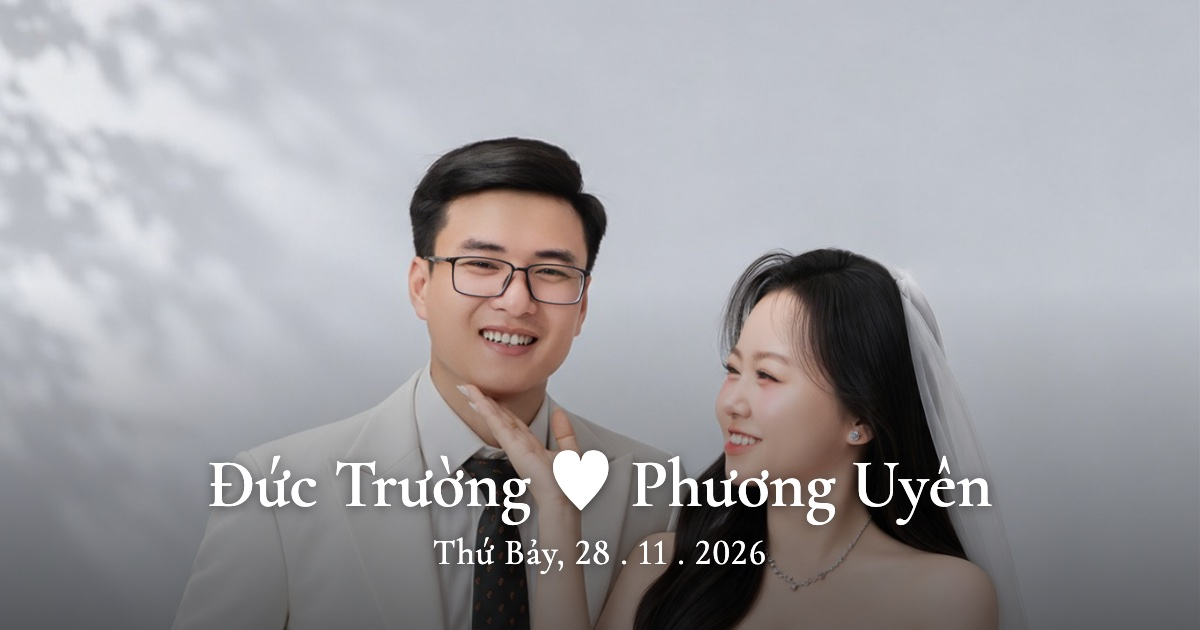
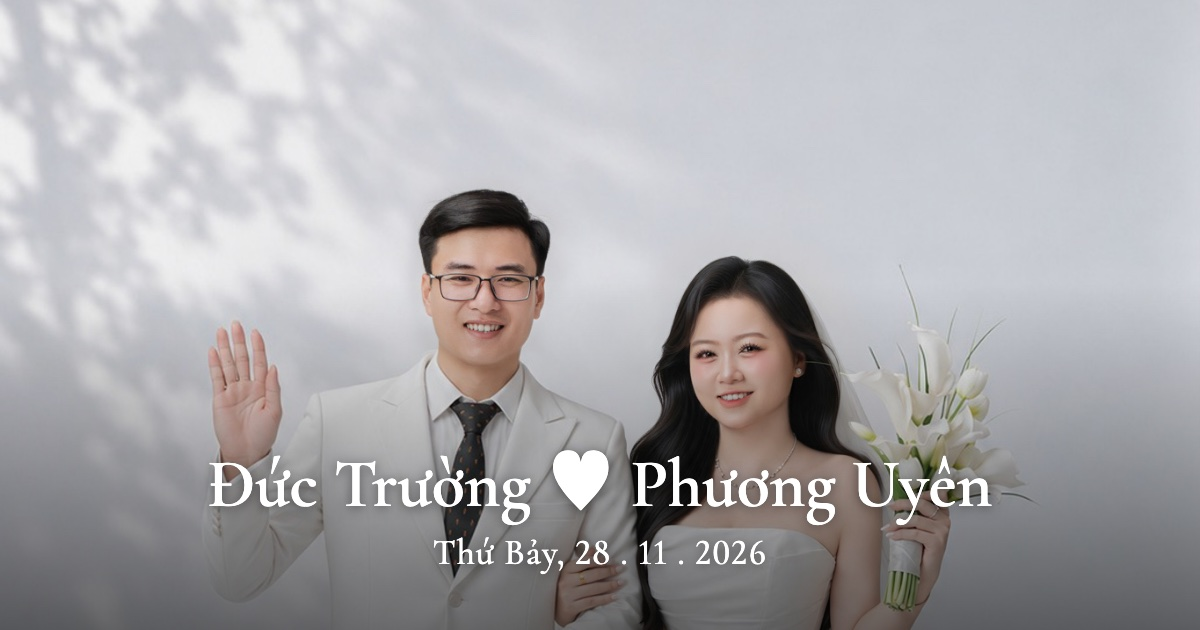
feat: thiệp Đức Trường & Phương Uyên (nhà trai) — ảnh đầu thiệp đổi sang DSC08628 (trang-1, ảnh đầu thư mục Drive) theo yêu cầu, ảnh cũ trang-4 xuống đầu album; ảnh xem trước link (og.jpg) làm lại từ ảnh mới (issue #36)

diff --git a/dist/assets/index-CsqScQ6U.js b/dist/assets/index-CsqScQ6U.js
@@ -97,7 +97,7 @@ Error generating stack: `+i.message+`
  *
  * This source code is licensed under the ISC license.
  * See the LICENSE file in the root directory of this source tree.
- */const rp=yt("X",[["path",{d:"M18 6 6 18",key:"1bl5f8"}],["path",{d:"m6 6 12 12",key:"d8bk6v"}]]),gc="Xóm Mỹ Quan, xã Hùng Châu, tỉnh Nghệ An",lp="Xóm Phúc Mỹ, xã Hải Châu, tỉnh Nghệ An",ip={label:"Nhà Trai",father:"Nguyễn Đăng Khoa",mother:"Nguyễn Thị Thu",address:gc},op={label:"Nhà Gái",father:"Đào Lục",mother:"Phạm Thị Tuyết",address:lp},up={hero:{subtitle:"Save The Date",names:["Đức Trường","Phương Uyên"],dateLine:"28 . 11 . 2026"},families:{sides:[ip,op],fullNames:["Đức Trường","Phương Uyên"]},invitation:{kicker:"Trân Trọng Kính Mời",defaultGuest:"Quý khách",title:"Tham Dự Lễ Thành Hôn",dateParts:["28","11","2026"]},events:{mapLabel:"Xem chỉ đường",items:[{id:"nha-trai",title:"Tiệc Mừng Lễ Thành Hôn",time:"11:00 - Thứ Bảy",date:"28. 11. 2026",lunar:"( Tức Ngày 20 Tháng 10 Năm Bính Ngọ )",places:[{label:"Tư Gia Nhà Trai",address:gc,mapQuery:"19.0751747,105.6062784"}]}]},calendar:{title:"Save The Date",dateIso:"2026-11-28"},rsvp:{show:!1},gift:{button:"Gửi Mừng Cưới",title:"Hộp Quà Mừng Cưới",copyLabel:"Copy STK",copiedLabel:"Đã copy",saveQrLabel:"Lưu ảnh QR",accounts:[{holder:"NGUYEN VAN TRUONG",number:"5120531802",bank:"BIDV",qr:"/images/qr-bidv.png"}]},thanks:{title:"Thank You",text:"Từ tận đáy lòng, chúng mình cảm ơn bạn đã dành tình cảm và sự hiện diện cho ngày vui này. Chính bạn đã góp phần làm nên một kỷ niệm hạnh phúc mà chúng mình sẽ luôn trân trọng."},music:{src:"/music/music.mp3",volume:.45}},wt={hero:"/images/trang-4.jpg",couple:"/images/ao-dai-2.jpg",dateStrip:["/images/den-5.jpg","/images/trang-3.jpg","/images/co-dau-1.jpg"],album:["/images/trang-1.jpg","/images/den-1.jpg","/images/den-8.jpg","/images/trang-2.jpg","/images/ao-dai-1.jpg","/images/den-6.jpg","/images/den-3.jpg","/images/trang-6.jpg","/images/co-dau-2.jpg","/images/den-9.jpg","/images/den-7.jpg","/images/den-4.jpg"],gift:"/images/den-2.jpg",thankYou:"/images/trang-5.jpg"},Xu="guest-links:names",sp="/tao-link";function ap(){try{return window.location.pathname.replace(/\/+$/,"")===sp}catch{return!1}}function Yl(e,t){return`${e}/?khach=${encodeURIComponent(t)}`}async function cp(e){try{return await navigator.clipboard.writeText(e),!0}catch{const t=document.createElement("textarea");t.value=e,t.style.position="fixed",t.style.opacity="0",document.body.appendChild(t),t.select();const n=document.execCommand("copy");return document.body.removeChild(t),n}}function Zu({text:e,label:t="Sao chép",className:n=""}){const[r,l]=P.useState(!1);async function i(){await cp(e)&&(l(!0),setTimeout(()=>l(!1),1500))}return a.jsxs("button",{type:"button",onClick:i,className:`inline-flex shrink-0 items-center gap-1.5 rounded-lg px-3 py-1.5 text-sm font-semibold transition ${r?"bg-green-600 text-white":"bg-[#9e3745] text-white hover:bg-[#7e2b37]"} ${n}`,children:[r?a.jsx(vc,{className:"h-4 w-4","aria-hidden":!0}):a.jsx(yc,{className:"h-4 w-4","aria-hidden":!0}),r?"Đã chép":t]})}function fp(){const e=P.useMemo(()=>window.location.origin,[]),[t,n]=P.useState(()=>{try{return localStorage.getItem(Xu)??""}catch{return""}}),[r,l]=P.useState(!0);P.useEffect(()=>{try{localStorage.setItem(Xu,t)}catch{}},[t]);const i=P.useMemo(()=>{const u=new Set;return t.split(`
+ */const rp=yt("X",[["path",{d:"M18 6 6 18",key:"1bl5f8"}],["path",{d:"m6 6 12 12",key:"d8bk6v"}]]),gc="Xóm Mỹ Quan, xã Hùng Châu, tỉnh Nghệ An",lp="Xóm Phúc Mỹ, xã Hải Châu, tỉnh Nghệ An",ip={label:"Nhà Trai",father:"Nguyễn Đăng Khoa",mother:"Nguyễn Thị Thu",address:gc},op={label:"Nhà Gái",father:"Đào Lục",mother:"Phạm Thị Tuyết",address:lp},up={hero:{subtitle:"Save The Date",names:["Đức Trường","Phương Uyên"],dateLine:"28 . 11 . 2026"},families:{sides:[ip,op],fullNames:["Đức Trường","Phương Uyên"]},invitation:{kicker:"Trân Trọng Kính Mời",defaultGuest:"Quý khách",title:"Tham Dự Lễ Thành Hôn",dateParts:["28","11","2026"]},events:{mapLabel:"Xem chỉ đường",items:[{id:"nha-trai",title:"Tiệc Mừng Lễ Thành Hôn",time:"11:00 - Thứ Bảy",date:"28. 11. 2026",lunar:"( Tức Ngày 20 Tháng 10 Năm Bính Ngọ )",places:[{label:"Tư Gia Nhà Trai",address:gc,mapQuery:"19.0751747,105.6062784"}]}]},calendar:{title:"Save The Date",dateIso:"2026-11-28"},rsvp:{show:!1},gift:{button:"Gửi Mừng Cưới",title:"Hộp Quà Mừng Cưới",copyLabel:"Copy STK",copiedLabel:"Đã copy",saveQrLabel:"Lưu ảnh QR",accounts:[{holder:"NGUYEN VAN TRUONG",number:"5120531802",bank:"BIDV",qr:"/images/qr-bidv.png"}]},thanks:{title:"Thank You",text:"Từ tận đáy lòng, chúng mình cảm ơn bạn đã dành tình cảm và sự hiện diện cho ngày vui này. Chính bạn đã góp phần làm nên một kỷ niệm hạnh phúc mà chúng mình sẽ luôn trân trọng."},music:{src:"/music/music.mp3",volume:.45}},wt={hero:"/images/trang-1.jpg",couple:"/images/ao-dai-2.jpg",dateStrip:["/images/den-5.jpg","/images/trang-3.jpg","/images/co-dau-1.jpg"],album:["/images/trang-4.jpg","/images/den-1.jpg","/images/den-8.jpg","/images/trang-2.jpg","/images/ao-dai-1.jpg","/images/den-6.jpg","/images/den-3.jpg","/images/trang-6.jpg","/images/co-dau-2.jpg","/images/den-9.jpg","/images/den-7.jpg","/images/den-4.jpg"],gift:"/images/den-2.jpg",thankYou:"/images/trang-5.jpg"},Xu="guest-links:names",sp="/tao-link";function ap(){try{return window.location.pathname.replace(/\/+$/,"")===sp}catch{return!1}}function Yl(e,t){return`${e}/?khach=${encodeURIComponent(t)}`}async function cp(e){try{return await navigator.clipboard.writeText(e),!0}catch{const t=document.createElement("textarea");t.value=e,t.style.position="fixed",t.style.opacity="0",document.body.appendChild(t),t.select();const n=document.execCommand("copy");return document.body.removeChild(t),n}}function Zu({text:e,label:t="Sao chép",className:n=""}){const[r,l]=P.useState(!1);async function i(){await cp(e)&&(l(!0),setTimeout(()=>l(!1),1500))}return a.jsxs("button",{type:"button",onClick:i,className:`inline-flex shrink-0 items-center gap-1.5 rounded-lg px-3 py-1.5 text-sm font-semibold transition ${r?"bg-green-600 text-white":"bg-[#9e3745] text-white hover:bg-[#7e2b37]"} ${n}`,children:[r?a.jsx(vc,{className:"h-4 w-4","aria-hidden":!0}):a.jsx(yc,{className:"h-4 w-4","aria-hidden":!0}),r?"Đã chép":t]})}function fp(){const e=P.useMemo(()=>window.location.origin,[]),[t,n]=P.useState(()=>{try{return localStorage.getItem(Xu)??""}catch{return""}}),[r,l]=P.useState(!0);P.useEffect(()=>{try{localStorage.setItem(Xu,t)}catch{}},[t]);const i=P.useMemo(()=>{const u=new Set;return t.split(`
 `).map(c=>c.replace(/\s+/g," ").trim()).filter(c=>c&&!u.has(c.toLowerCase())&&u.add(c.toLowerCase()))},[t]),o=i.map(u=>r?`${u}: ${Yl(e,u)}`:Yl(e,u)),s=document.title;return a.jsx("div",{className:"min-h-screen bg-[#f8f6f2] px-4 py-8 font-sans text-[#1f1f1f]",children:a.jsxs("main",{className:"mx-auto max-w-[640px]",children:[a.jsx("h1",{className:"text-2xl font-bold",children:"Tạo link mời khách"}),a.jsxs("p",{className:"mt-1 text-sm text-black/60",children:["Thiệp: ",a.jsx("b",{children:s})]}),a.jsx("label",{className:"mt-6 block text-sm font-semibold",htmlFor:"guest-names",children:"Tên khách mời — mỗi dòng một người, ghi cả xưng hô (vd: Cô Lan, Gia đình bác Hùng, Anh Tuấn)"}),a.jsx("textarea",{id:"guest-names",value:t,onChange:u=>n(u.target.value),rows:8,placeholder:`Cô Lan
 Gia đình bác Hùng
 Anh Tuấn & chị Mai`,className:"mt-2 w-full rounded-xl border border-black/20 bg-white p-3 text-base outline-none focus:border-[#9e3745]"}),a.jsx("p",{className:"mt-1 text-xs text-black/50",children:"Danh sách được lưu trên trình duyệt này, mở lại trang vẫn còn."}),i.length>0&&a.jsxs(a.Fragment,{children:[a.jsxs("div",{className:"mt-6 flex flex-wrap items-center justify-between gap-3",children:[a.jsxs("p",{className:"font-semibold",children:[i.length," link"]}),a.jsxs("div",{className:"flex items-center gap-3",children:[a.jsxs("label",{className:"flex items-center gap-1.5 text-sm",children:[a.jsx("input",{type:"checkbox",checked:r,onChange:u=>l(u.target.checked)}),"Kèm tên khi chép tất cả"]}),a.jsx(Zu,{text:o.join(`

diff --git a/src/image.js b/src/image.js
@@ -6,14 +6,14 @@
  */
 export const images = {
   /** Ảnh dọc lớn đầu thiệp (khung vàng) */
-  hero: '/images/trang-4.jpg',
+  hero: '/images/trang-1.jpg',
   /** Ảnh dưới phần gia đình (khung vàng) */
   couple: '/images/ao-dai-2.jpg',
   /** 3 ảnh dải ngày cưới: chú rể (không có ảnh chú rể riêng → ảnh chú rể nổi bật), ảnh đôi, cô dâu */
   dateStrip: ['/images/den-5.jpg', '/images/trang-3.jpg', '/images/co-dau-1.jpg'],
   /** Lưới ảnh 2 cột — số chẵn */
   album: [
-    '/images/trang-1.jpg',
+    '/images/trang-4.jpg',
     '/images/den-1.jpg',
     '/images/den-8.jpg',
     '/images/trang-2.jpg',

diff --git a/dist/index.html b/dist/index.html
@@ -24,7 +24,7 @@
       href="https://fonts.googleapis.com/css2?family=Cormorant+Upright:wght@400;600&family=Ephesis&family=Great+Vibes&family=Imperial+Script&family=Lora:wght@400;700&family=Montserrat:wght@400;500;600;700&family=Oswald:wght@400;500&family=Prata&family=Quicksand:wght@400;500;600;700&family=Tinos:ital,wght@0,400;0,700;1,400&display=swap"
       rel="stylesheet"
     />
-    <script type="module" crossorigin src="/assets/index-DKxn_IYC.js"></script>
+    <script type="module" crossorigin src="/assets/index-CsqScQ6U.js"></script>
     <link rel="stylesheet" crossorigin href="/assets/index-Du__Phy9.css">
   </head>
   <body>
